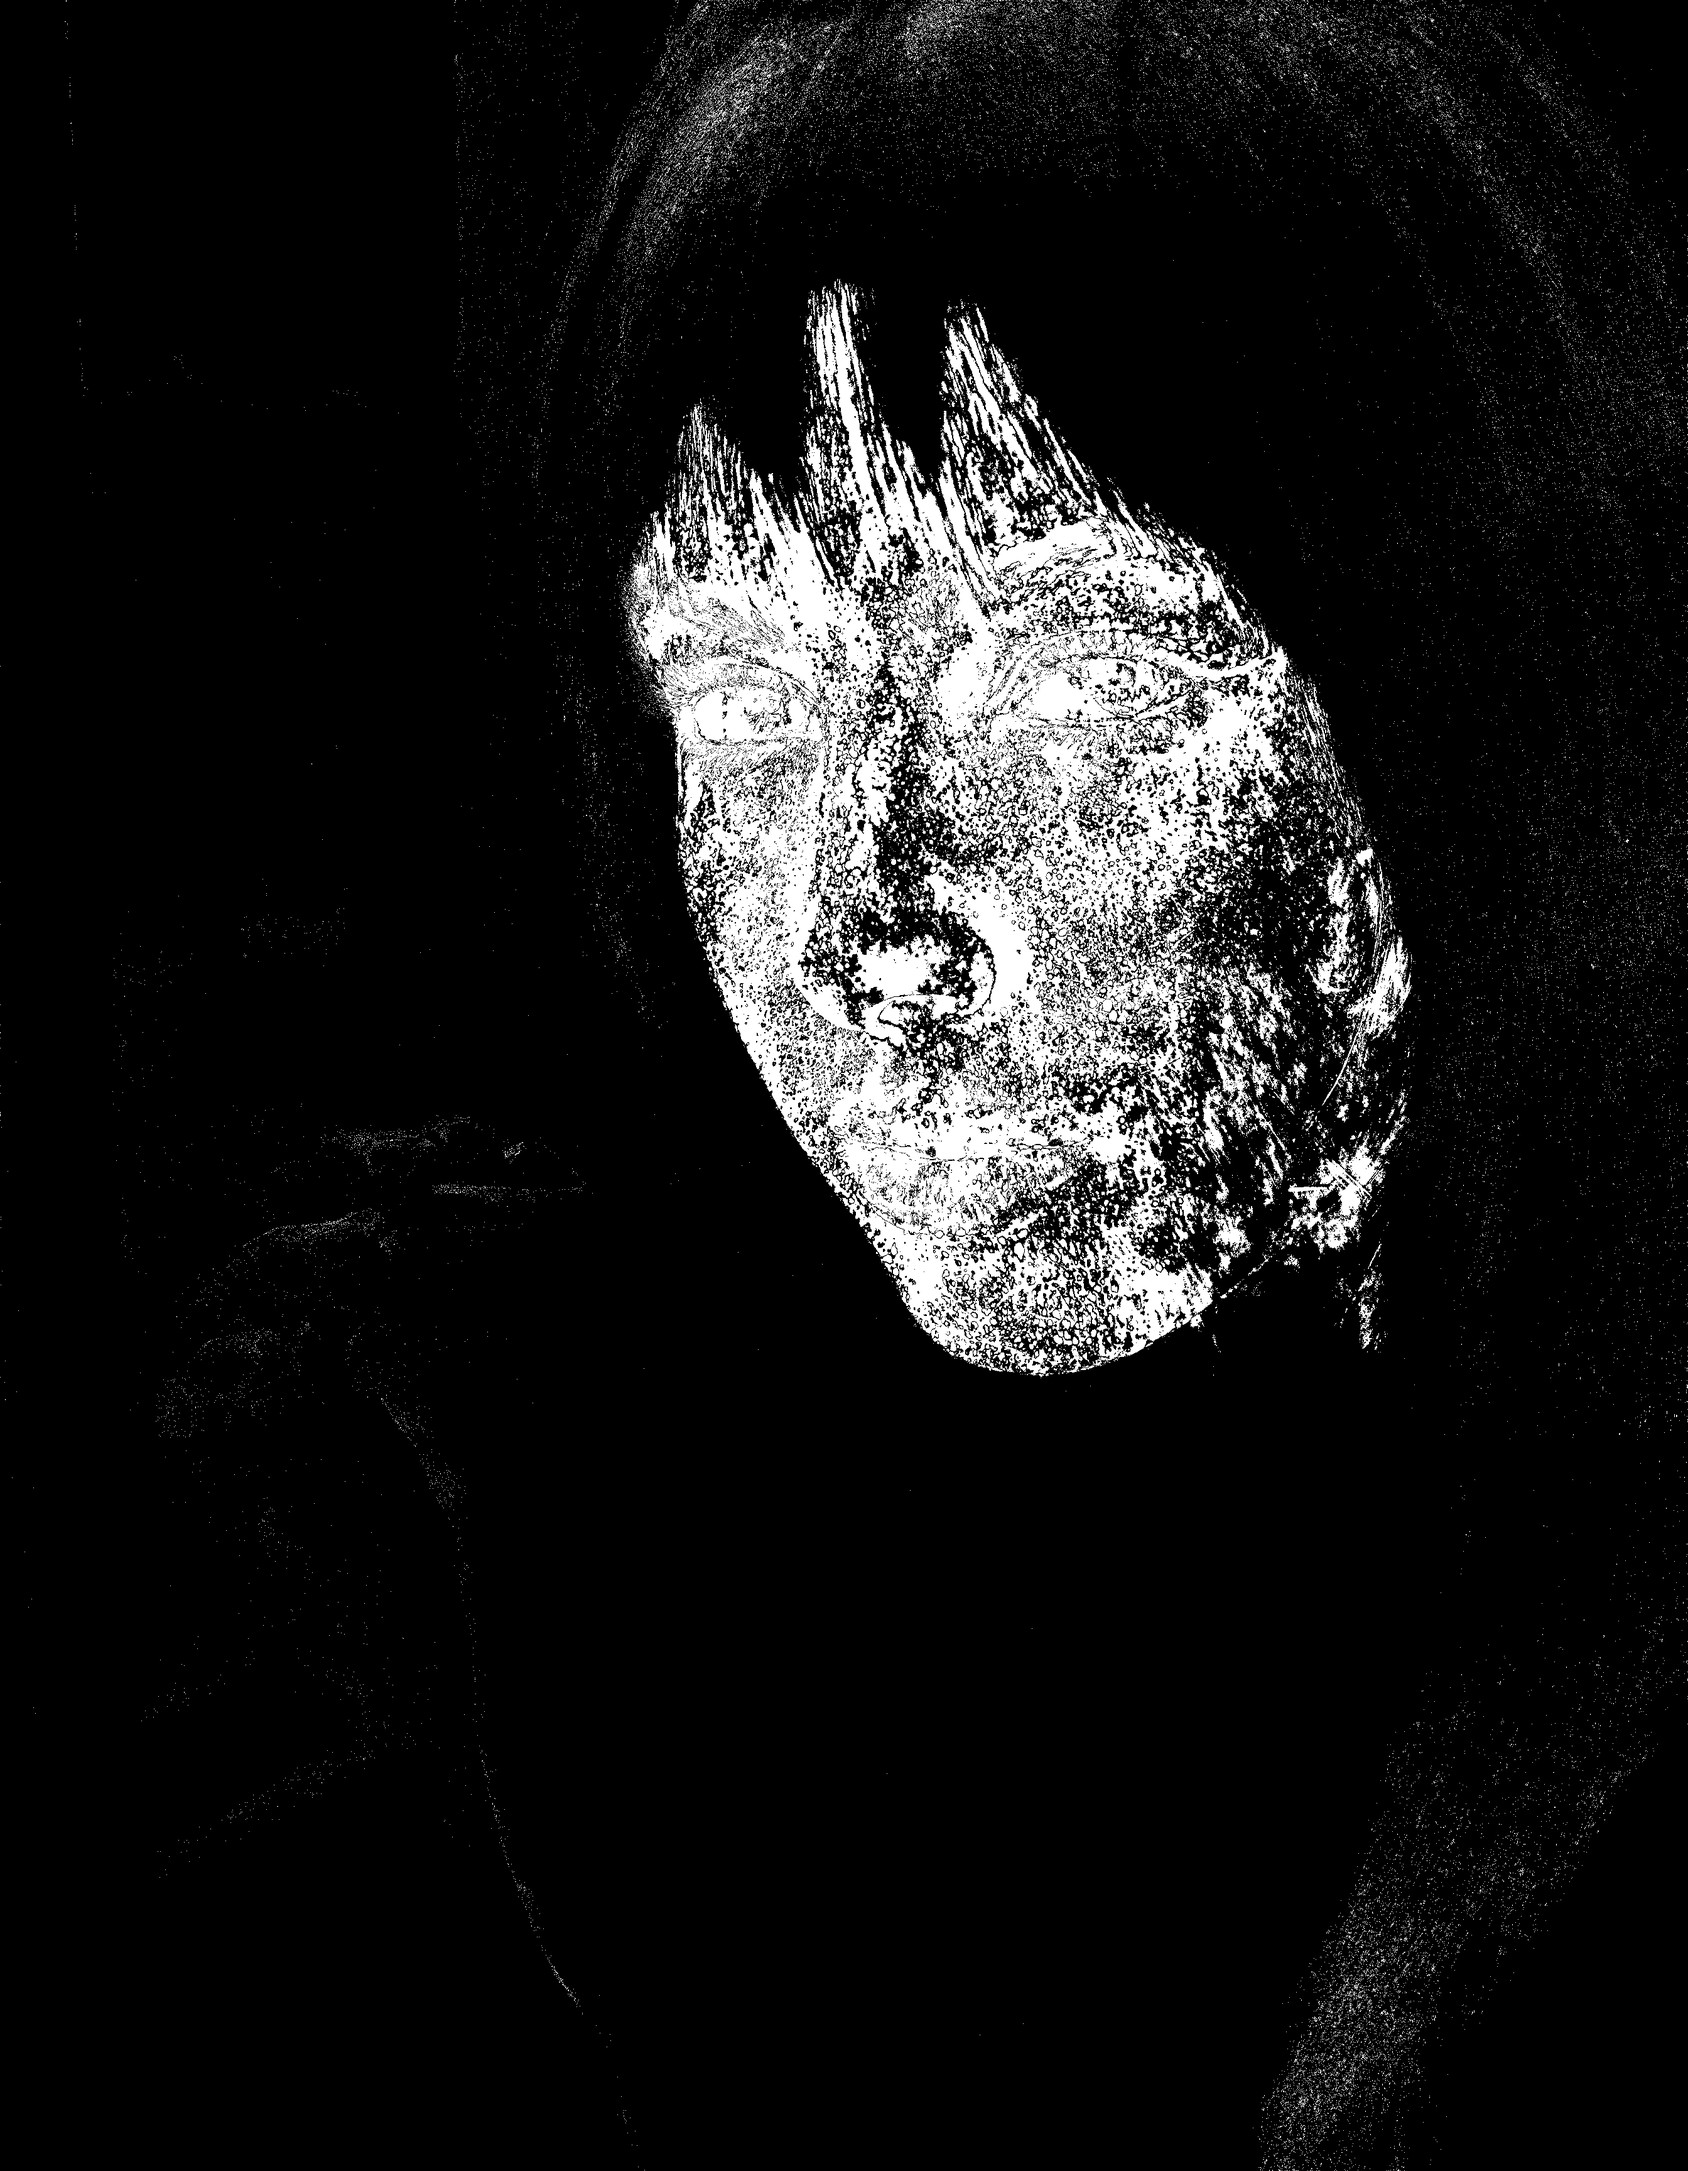
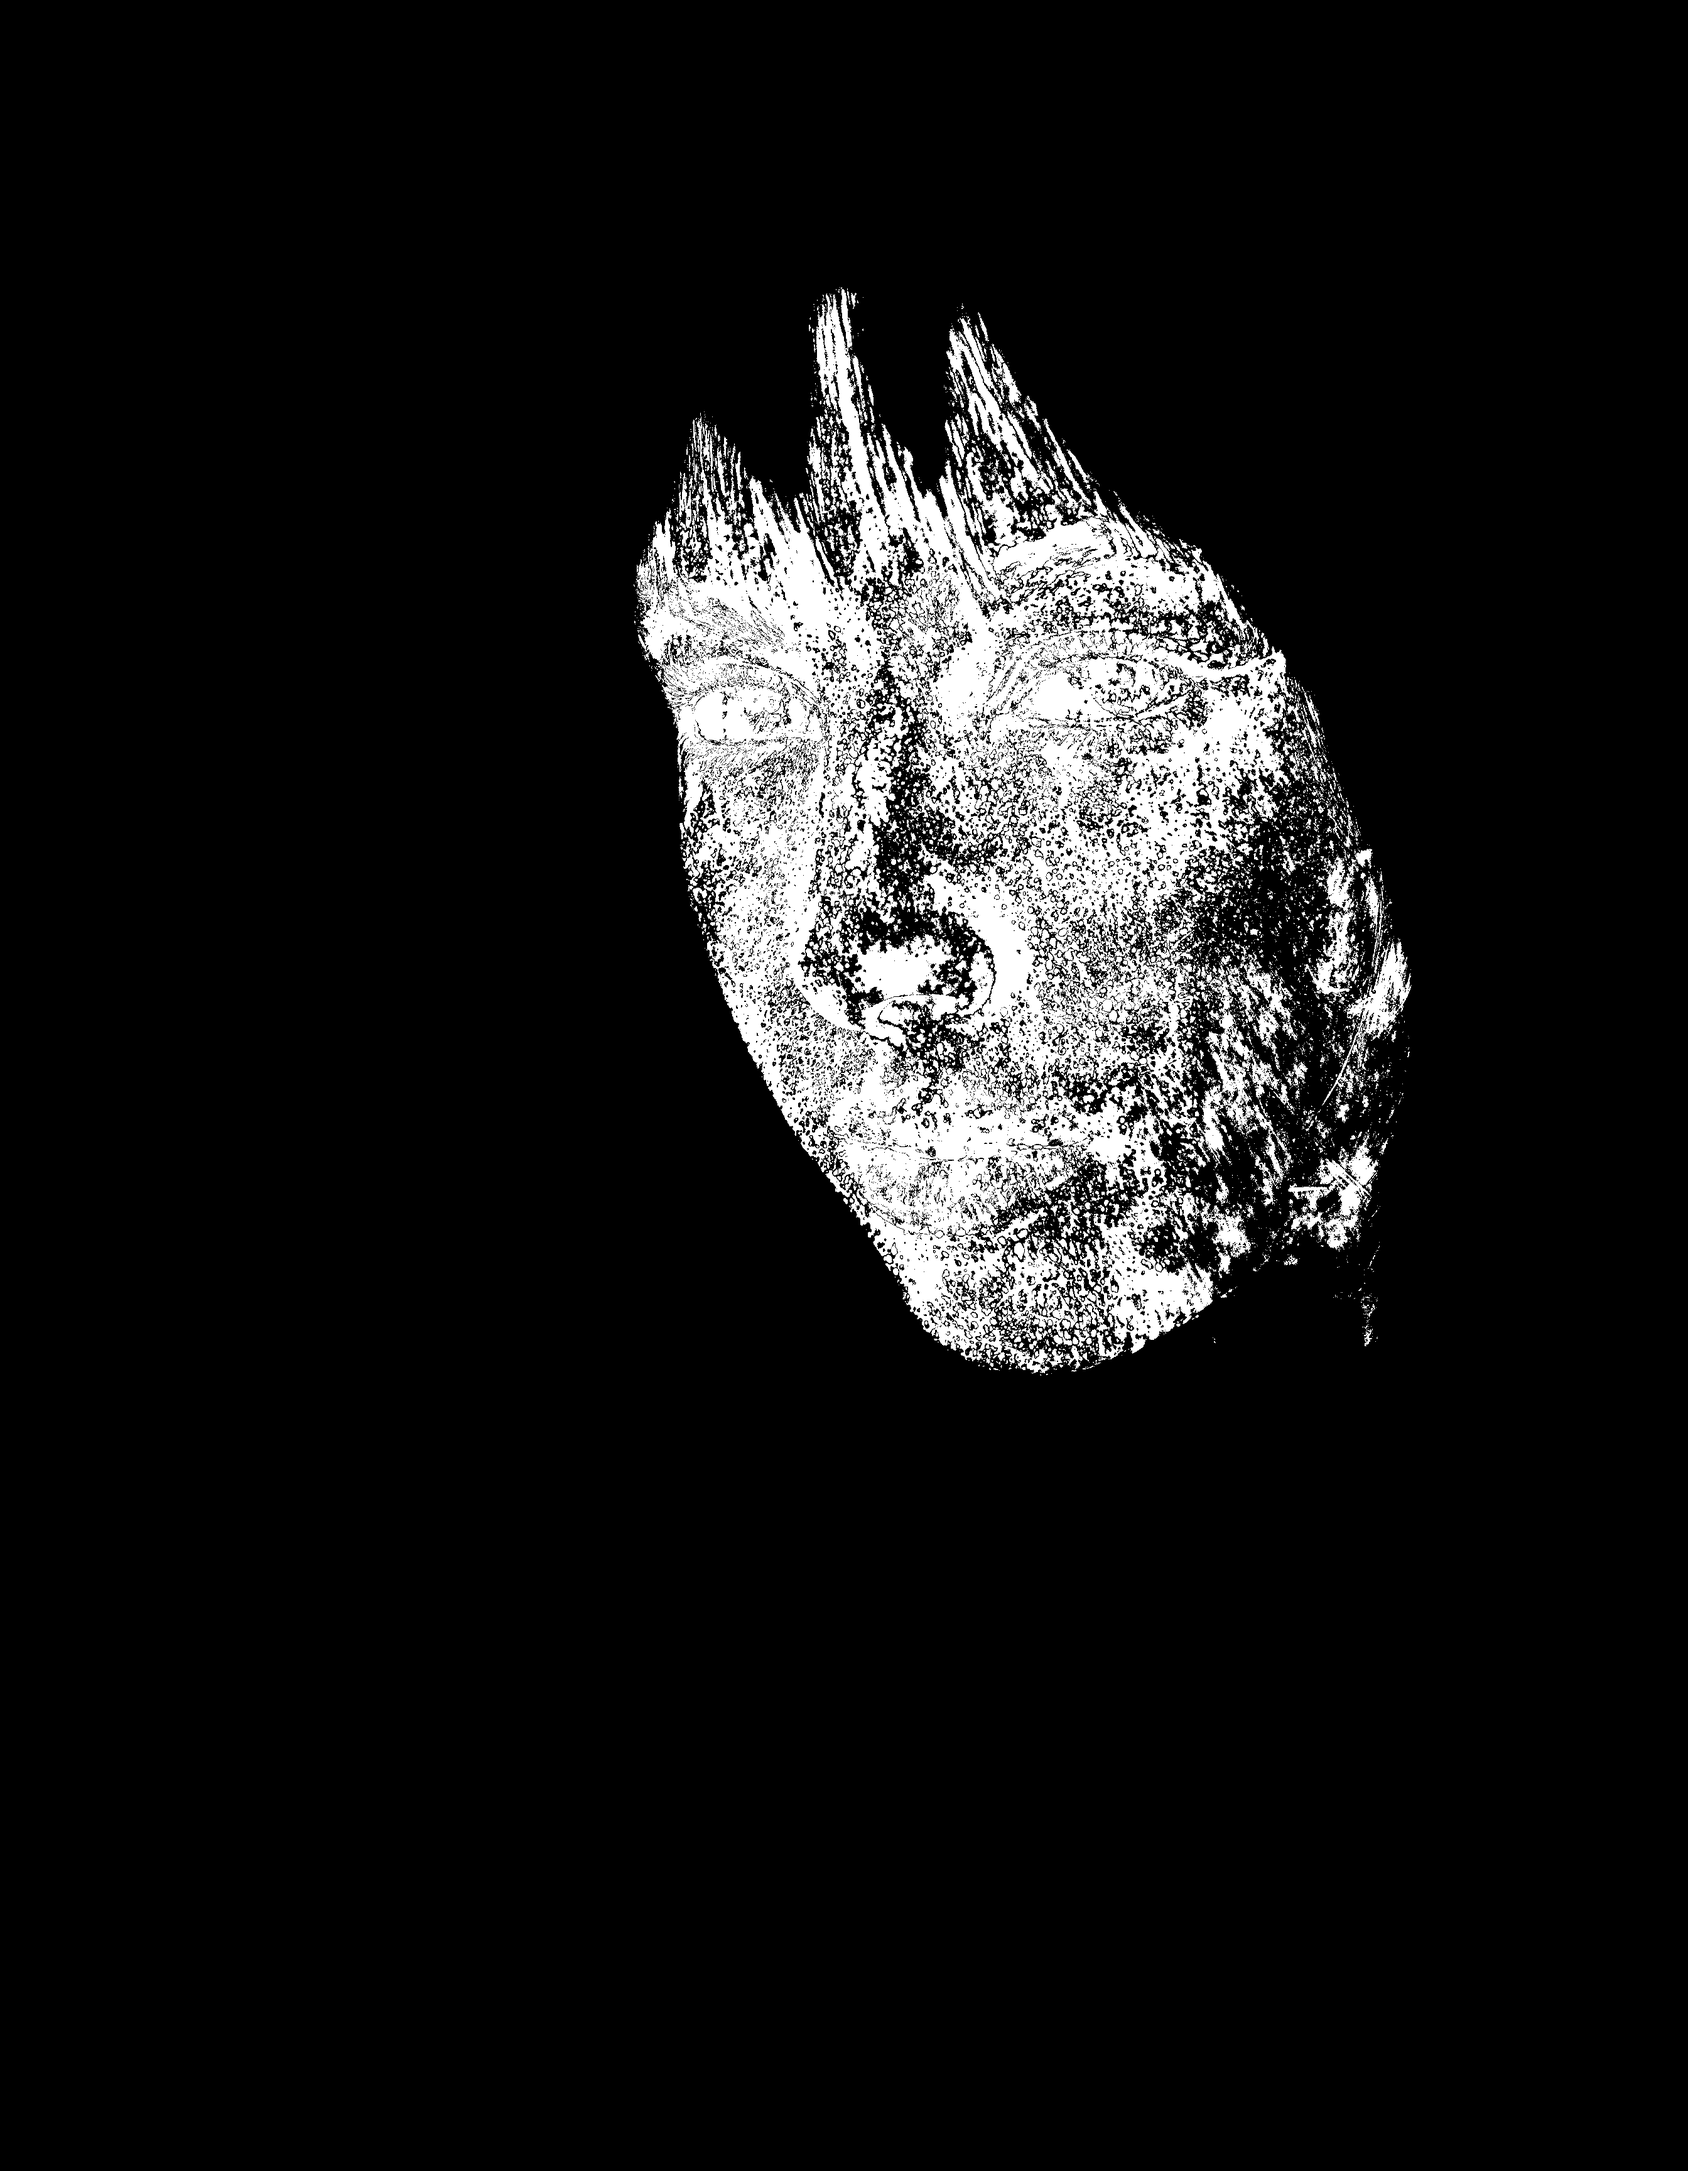
P3-CFG: correct my own change-extent figure -- 16.27%, not 99.05%
I measured #114's footprint on output slot 1 cropped_refined, which is the raw
VAE-decoded crop and is not the slot wired downstream. Slot 0 image composites
the refined region back in pixel space, so outside the SAM mask the output is
bit-identical to the input. The >8-level figure, which is the artefact claim,
moves only 9.51% -> 9.08%; the >0 figure moves 99.05% -> 16.27%.

diff --git a/notes/P3-cfg.md b/notes/P3-cfg.md
@@ -190,26 +190,34 @@ So:
   watermark from a corner even at cfg 5, because those pixels are masked out of
   the update.
 
-  **Measured, from the baseline run's own tapped input and output** (input
-  `620:137`, output `620:114`, both 2688×3456), saved as
+  **Measured, from the tapped input `620:137` against output slot 0 (`image`) —
+  the slot actually wired downstream to `620:111`.** Saved as
   `results/cfg/compare/114_change_extent.json` and
   `114_changed_gt8_levels_1to1.png`:
 
   | change threshold | share of the 2688×3456 frame |
   |---|---|
-  | > 0 levels | **99.05 %** |
-  | > 2 levels | 60.39 % |
-  | > 8 levels | **9.51 %** |
-  | > 16 levels | 3.90 % |
+  | > 0 levels | 16.27 % |
+  | > 2 levels | 14.51 % |
+  | > 8 levels | **9.08 %** |
+  | > 16 levels | 4.14 % |
 
   The `> 8 levels` map is a clean silhouette of the face and nothing else — that
-  is the SAM mask, and it is the only region the pass meaningfully edits. The
-  99 % figure is the *other* half of the story and is a separate finding: because
-  the composite happens in latent space and the whole frame is then VAE-decoded,
-  **`#114` puts the entire 2688×3456 image through a VAE round-trip** and shifts
-  essentially every pixel by a level or two. That is a cost paid on the whole
-  frame for an edit confined to 9.5 % of it. Not my brief, but somebody should
-  look at whether `bbox_crop_factor 3` is the right number here.
+  is the SAM mask, and it is the only region the pass edits. Outside the mask the
+  output is **bit-identical** to the input (flat-patch 1–4 px DoG RMS: background
+  2.685 → 2.685, wall 1.572 → 1.572).
+
+  > **Correction I made to myself, recorded because it nearly went into other
+  > people's numbers.** I first measured this on output **slot 1,
+  > `cropped_refined`**, and got 99.05 % of pixels changed, which I reported to
+  > main as whole-frame VAE round-trip damage. That was wrong. Slot 1 is the raw
+  > VAE-decoded crop, so it carries round-trip drift over everything it contains
+  > — and for this image it contains the whole frame. Slot 0 composites the
+  > refined region back in *pixel* space. The `> 8 levels` figure barely moves
+  > (9.51 % → 9.08 %) so the artefact conclusion is unaffected, but "percentage of
+  > pixels changed" is 6× different depending on which output slot you sample.
+  > Anyone measuring a detailer this way should sample the slot that is wired
+  > onward.
 
 ### The correction I owe this section
 
